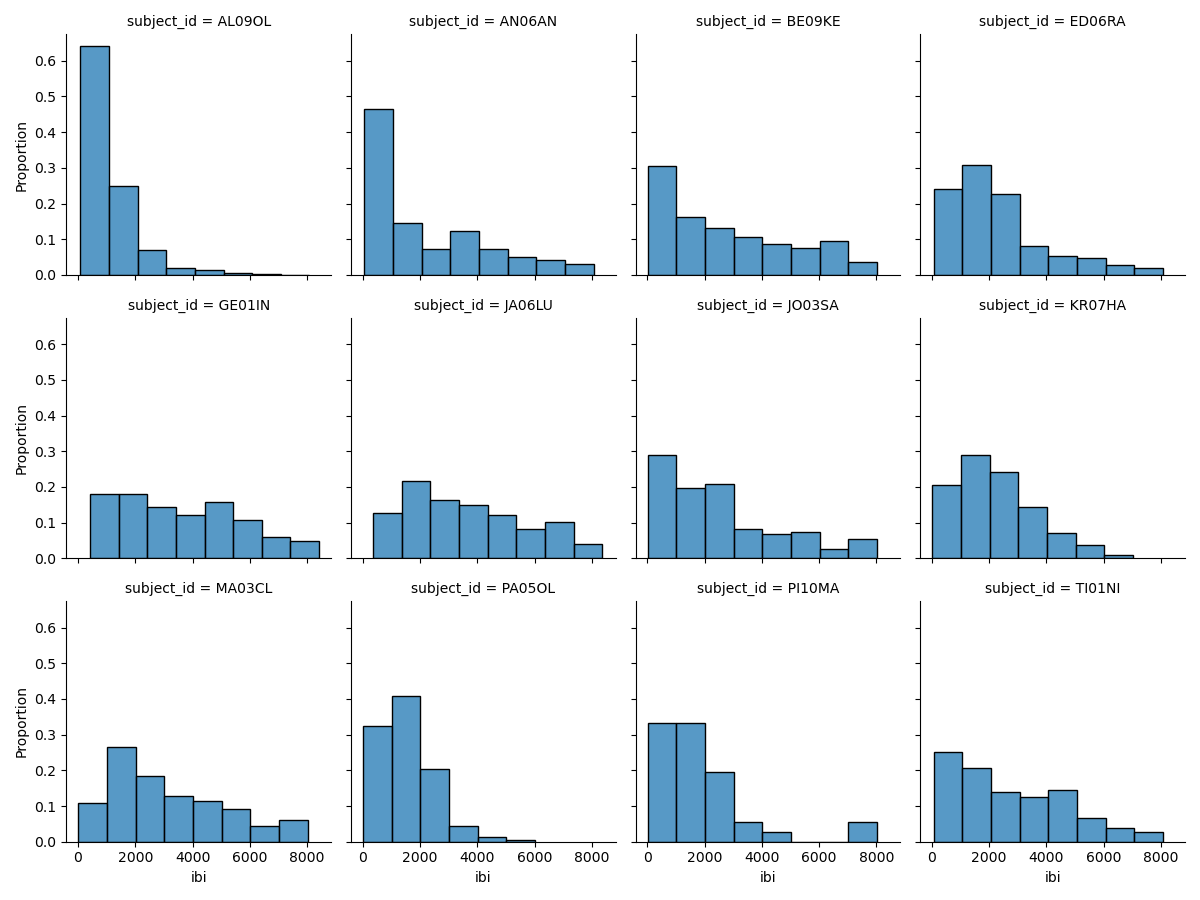
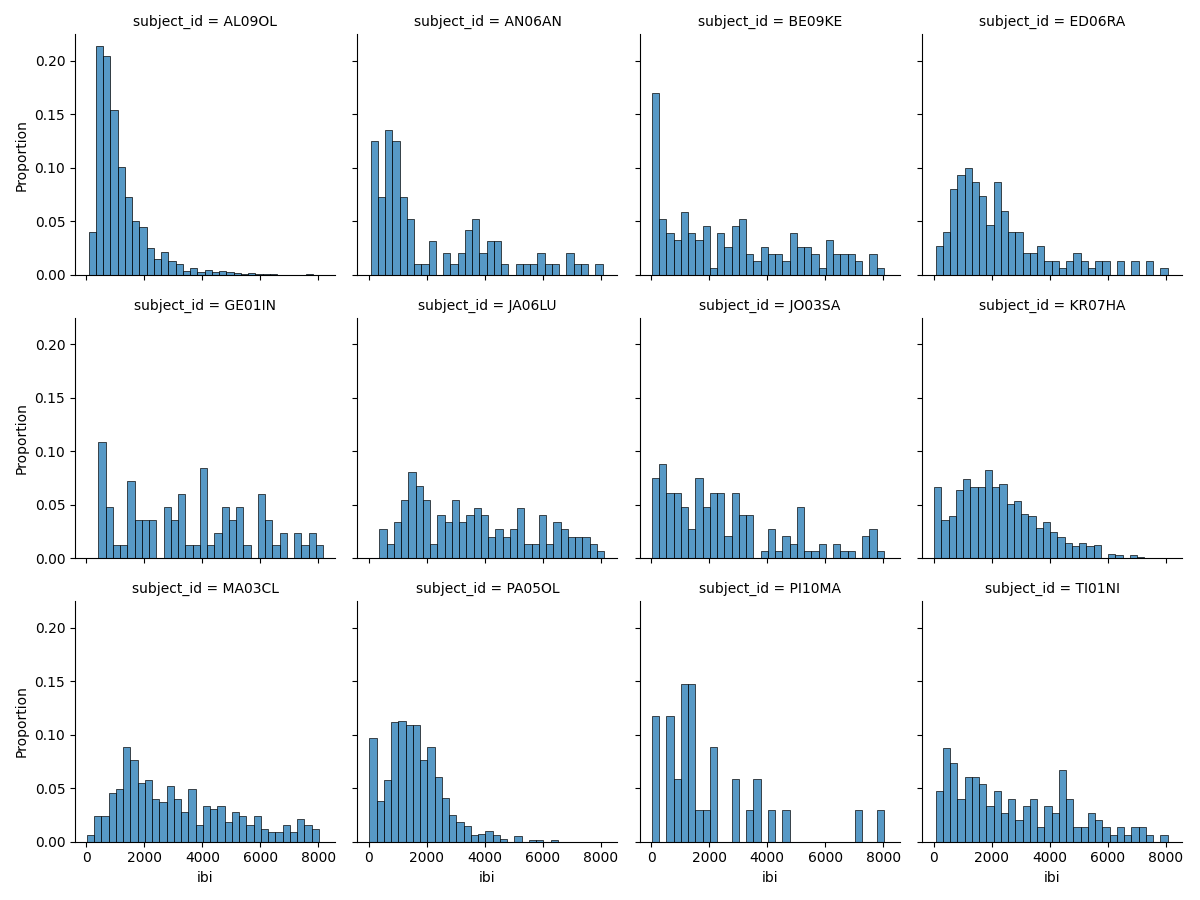
plots blink over performance

diff --git a/analysis/gaze/blink_rates.py b/analysis/gaze/blink_rates.py
@@ -4,6 +4,7 @@ import numpy as np
 import pandas as pd
 import scipy
 from matplotlib import pyplot as plt
+import seaborn as sns
 
 from analysis import paper_plot_utils
 from analysis.data_utils import get_river_data, get_street_data, read_data
@@ -123,7 +124,7 @@ def plot_blink_rate_over_score():
     y = df['blink_rate']
     sem = df['br_sem']
     std = df['br_std']
-    res = scipy.stats.linregress(x, y, alternative='less')  # TODO alternative
+    res = scipy.stats.linregress(x, y, alternative='less')
 
     print('Linear Regression for avg blinking rate per score:')
     print(f'R-squared: {res.rvalue ** 2}')
@@ -154,7 +155,7 @@ def plot_blink_rate_over_score():
 
     fig, ax = plt.subplots(figsize=paper_plot_utils.figsize)
     # plt.scatter(x, y, label='data')
-    plt.errorbar(x, y, yerr=sem, fmt='o', markersize=2, label='data')  # TODO sem or std for errorbar?
+    plt.errorbar(x, y, yerr=sem, fmt='o', markersize=2, label='data')
     plt.plot(xx, res.intercept + res.slope * xx, 'r', label='linReg')
     # plt.fill_between(xx, bounds_min, bounds_max, color='r', alpha=0.25, label='95% ci interval')
     plt.xlim(xlim)
@@ -162,13 +163,76 @@ def plot_blink_rate_over_score():
     plt.ylabel('blinking rate [$s^{-1}$]')
     plt.legend()
     plt.tight_layout()
-    plt.savefig('./imgs/blinks/blinking_rate_per_score_w_lin_reg.png')
+    plt.savefig('./imgs/blinks/blink_rate_per_score_w_lin_reg.png')
+    plt.show()
+
+
+def plot_blink_rate_over_level_score():
+    blink_rates = pd.read_csv('../data/blink_rates.csv')
+    scores = pd.read_csv('../data/level_scores.csv')
+    df = blink_rates.merge(scores, on=['subject_id', 'game_difficulty', 'world_number'], how='left')
+
+    # only won games
+    df = df[df['standardized_level_score'] > 200]
+
+    # remove nan blink rates
+    df = df.dropna(subset=['blink_rate'])
+
+    fig, ax = plt.subplots(figsize=paper_plot_utils.figsize)
+    # plt.scatter(x, y, label='data')
+    sns.scatterplot(df, x='standardized_level_score', y='blink_rate', hue='subject_id', ax=ax)
+    plt.legend([], [], frameon=False)
+    plt.tight_layout()
+    plt.savefig('./imgs/blinks/blink_rate_per_level_score_w_lin_reg_per_subject.png')
+    plt.show()
+
+    # linear regression:
+    x = df['standardized_level_score']
+    y = df['blink_rate']
+    res = scipy.stats.linregress(x, y, alternative='greater')
+
+    print('\n\nLinear Regression for avg blinking rate per standardized level score:')
+    print(f'R-squared: {res.rvalue ** 2}')
+    print(f'p value: {res.pvalue}')
+
+    # calc 95% CI for slope
+    dof = x.shape[0] - 1
+    tinv = lambda p, df: abs(scipy.stats.t.ppf(p / 2, dof))
+    ts = tinv(0.05, len(x) - 2)
+    slope_ci_upper = res.slope + ts * res.stderr
+    slope_ci_lower = res.slope - ts * res.stderr
+    intercept_ci_upper = res.intercept + ts * res.intercept_stderr
+    intercept_ci_lower = res.intercept - ts * res.intercept_stderr
+
+    # calculate
+    steps = 1000
+    xlim = (x.min() - 10, x.max() + 10)
+    xx = np.arange(xlim[0], xlim[1], steps)
+    possible_bounds = np.zeros((4, xx.shape[0]))
+    for i, (slope, intercept) in enumerate(product([slope_ci_lower, slope_ci_upper], [intercept_ci_lower, intercept_ci_upper])):
+        possible_bounds[i] = intercept + xx * slope
+
+    bounds_max = np.max(possible_bounds, axis=0)
+    bounds_min = np.min(possible_bounds, axis=0)
+
+    print(f"slope (95%): {res.slope:.6f} +/- {ts * res.stderr:.6f}")
+    print(f"intercept (95%): {res.intercept:.6f} +/- {ts * res.intercept_stderr:.6f}")
+
+    fig, ax = plt.subplots(figsize=paper_plot_utils.figsize)
+    # plt.scatter(x, y, label='data')
+    sns.scatterplot(df, x='standardized_level_score', y='blink_rate', ax=ax)
+    ax.plot(xx, res.intercept + res.slope * xx, 'r', label='linReg')
+    # ax.fill_between(xx, bounds_min, bounds_max, color='r', alpha=0.25, label='95% ci interval')
+    plt.legend([], [], frameon=False)
+    plt.tight_layout()
+    plt.savefig('./imgs/blinks/blink_rate_per_level_score_w_lin_reg.png')
     plt.show()
 
 
 if __name__ == '__main__':
     # save_blink_rates()
     plot_blink_rate_over_score()
+    plot_blink_rate_over_level_score()
     # plot_blink_rates()
     # ttest_blink_rate_street_river()
     # kstest_blink_rate_distance_street_river()

diff --git a/analysis/gaze/blinks.py b/analysis/gaze/blinks.py
@@ -3,7 +3,7 @@ import pandas as pd
 from matplotlib import pyplot as plt
 import seaborn as sns
 
-from analysis.data_utils import read_data
+from analysis.data_utils import read_data, subject2letter
 from analysis.gaze.events.event_detection import try_blink_detection
 
 
@@ -63,7 +63,11 @@ def save_blinks_and_IBIs():
 
 def plot_IBI_per_subject():
     ibi_data = pd.read_csv('../data/ibi.csv')
-    bin_width = 1000
+    level_scores = pd.read_csv('../data/level_scores.csv')[['subject_id', 'score']].drop_duplicates()
+
+    ibi_data = ibi_data.merge(level_scores, on=['subject_id'], how='left')
+
+    bin_width = 250
     ibi_data = ibi_data[ibi_data['ibi'] < 8_000]
 
     sns.histplot(data=ibi_data, x='ibi', binwidth=bin_width, stat='proportion')
@@ -75,7 +79,22 @@ def plot_IBI_per_subject():
     plt.savefig('./imgs/blinks/ibi/subject_ibi.png')
     plt.show()
 
+    g = sns.FacetGrid(ibi_data, col='score', col_wrap=4)
+    g.map_dataframe(sns.histplot, 'ibi', binwidth=bin_width, stat='proportion')
+    plt.savefig('./imgs/blinks/ibi/score_ibi_hist.png')
+    plt.show()
+
+    order = ibi_data[['subject_id', 'score']].drop_duplicates().sort_values(by='score')
+    ax = sns.boxplot(ibi_data, x='subject_id', y='ibi', order=order['subject_id'])
+
+    # rename subject IDs
+    xlabels = [subject2letter(subj_id.get_text()) for subj_id in ax.get_xticklabels()]
+    ax.set_xticklabels(xlabels)
+    plt.tight_layout()
+    plt.savefig('./imgs/blinks/ibi/score_ibi_box.png')
+    plt.show()
+
 
 if __name__ == '__main__':
-    save_blinks_and_IBIs()
-    # plot_IBI_per_subject()
+    # save_blinks_and_IBIs()
+    plot_IBI_per_subject()
